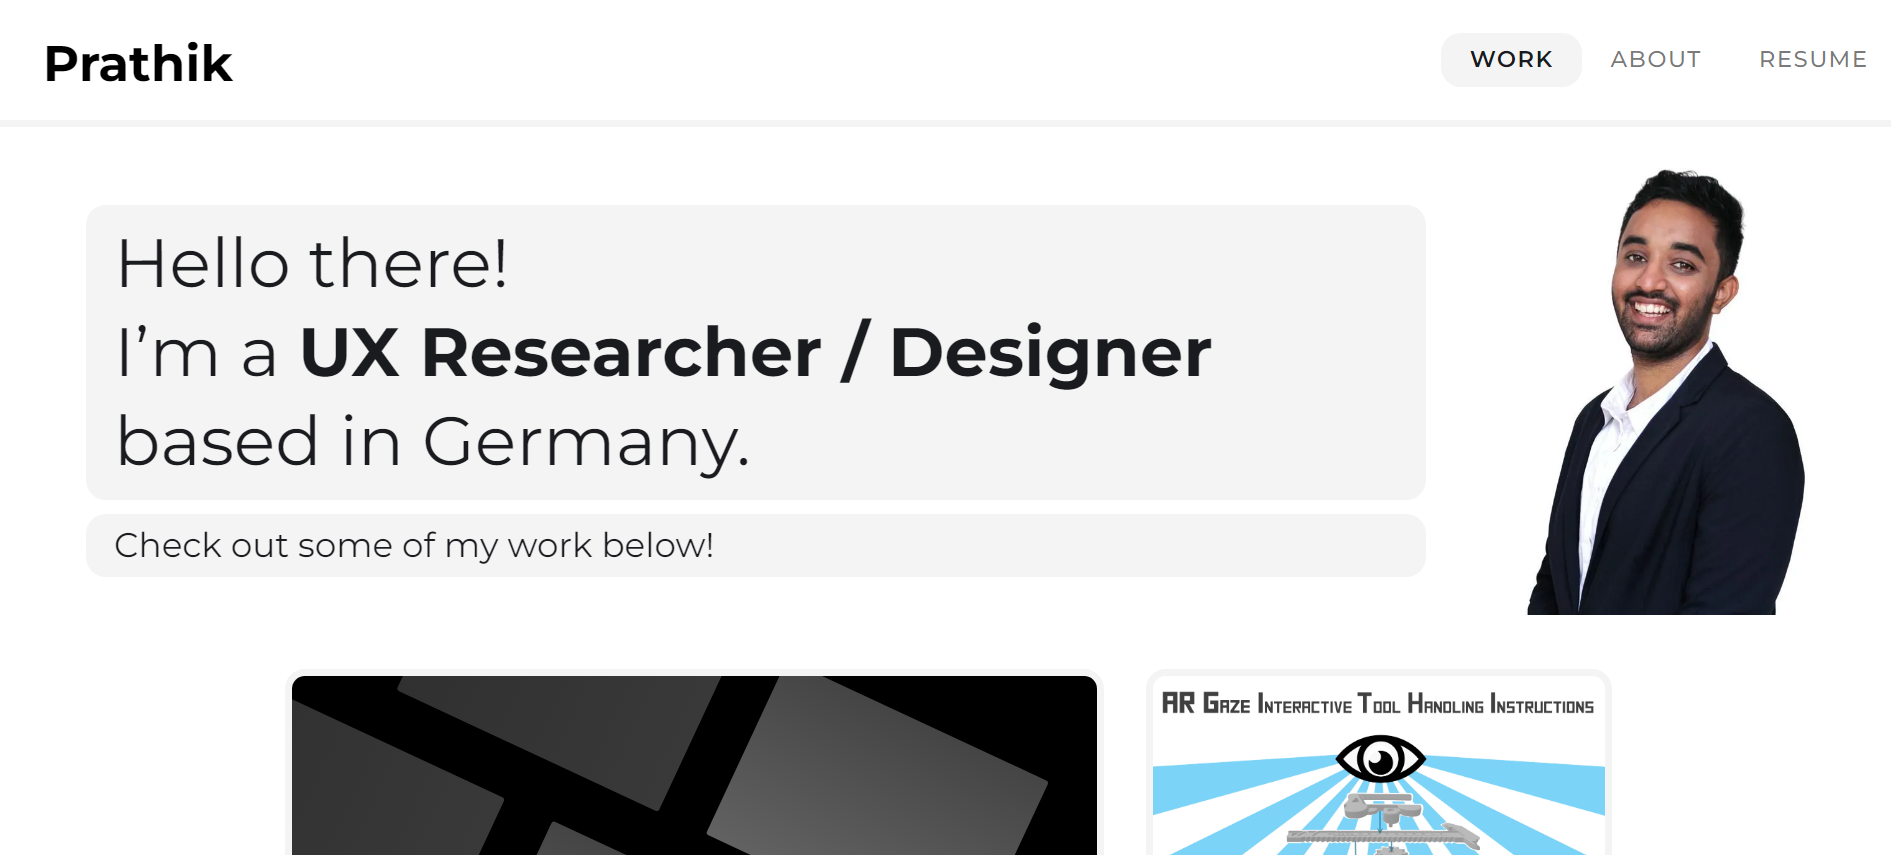
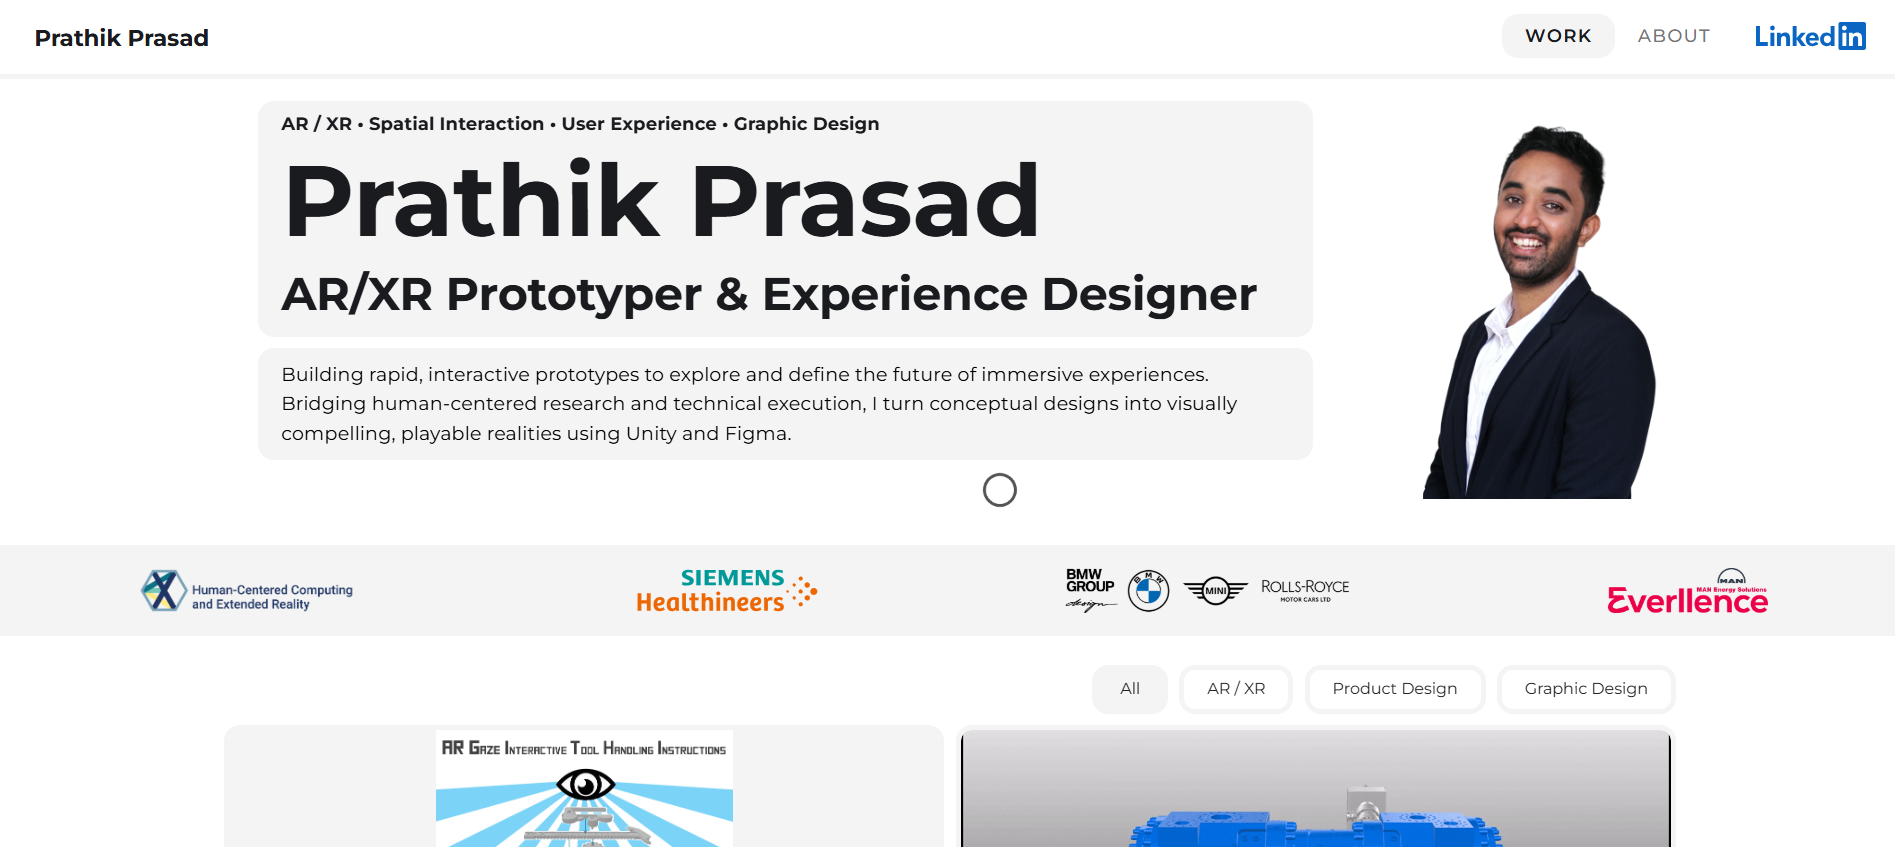
updated preview image and duckxr tags

diff --git a/script.js b/script.js
@@ -17,7 +17,7 @@ const projectCards = [
     imageClass: 'cover',
     span: 6,
     categories: ['arxr', 'product'],
-    tags: ['Augmented Reality', 'UI Design', 'Web', 'Unity', 'Meta Quest 3']
+    tags: ['Augmented Reality', 'UI Design', 'Web', 'Smartphone']
   },
   {
     title: 'DuckXR:',
